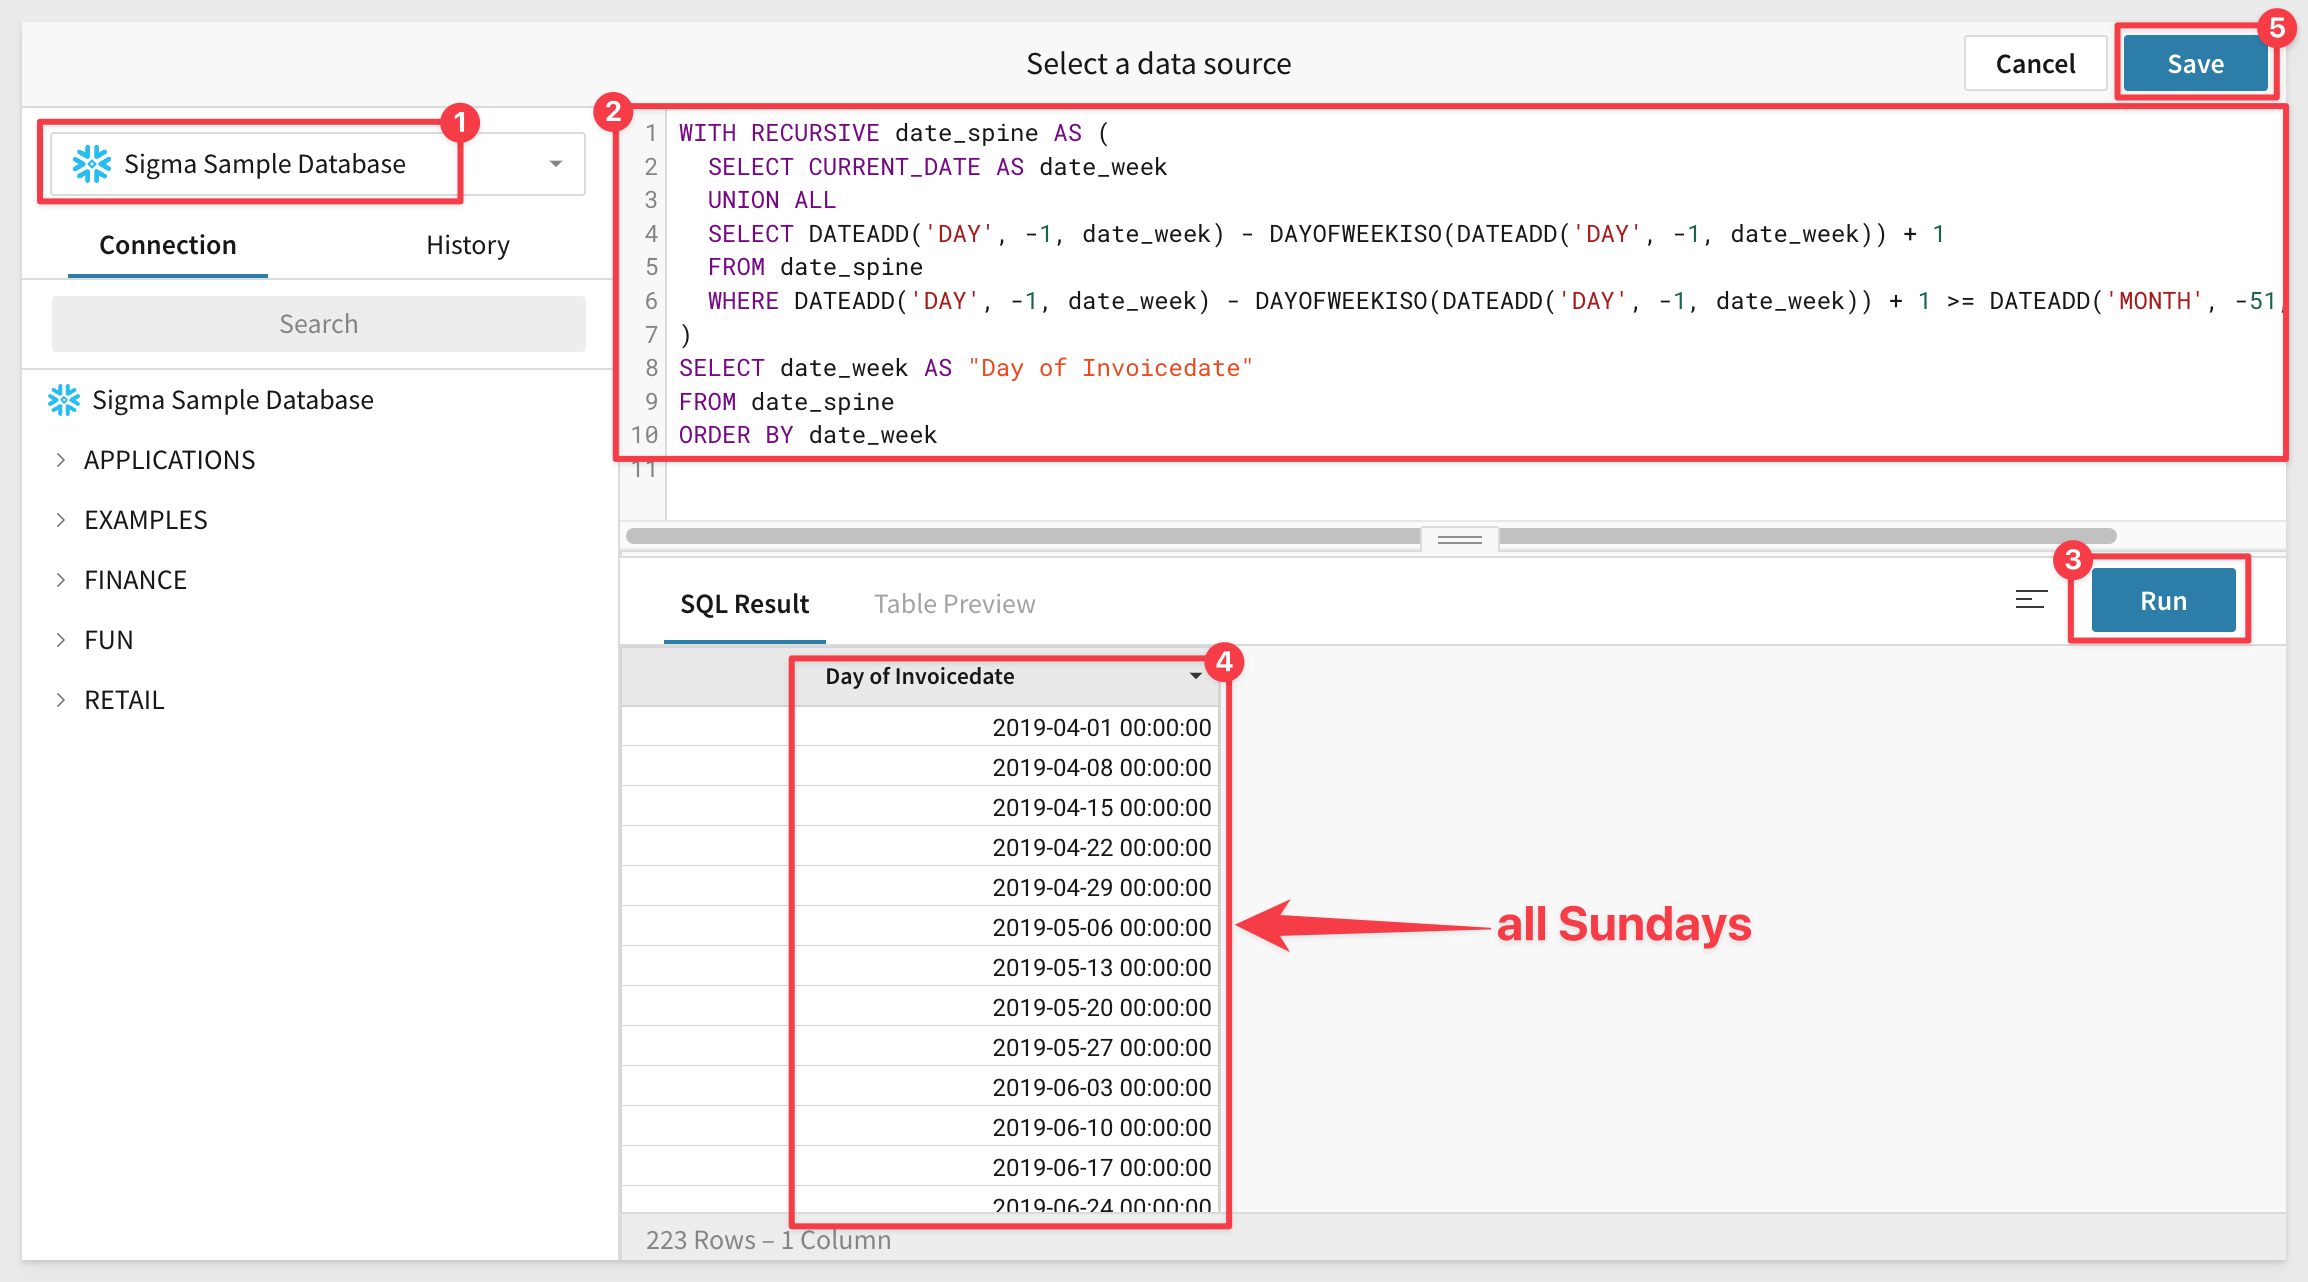
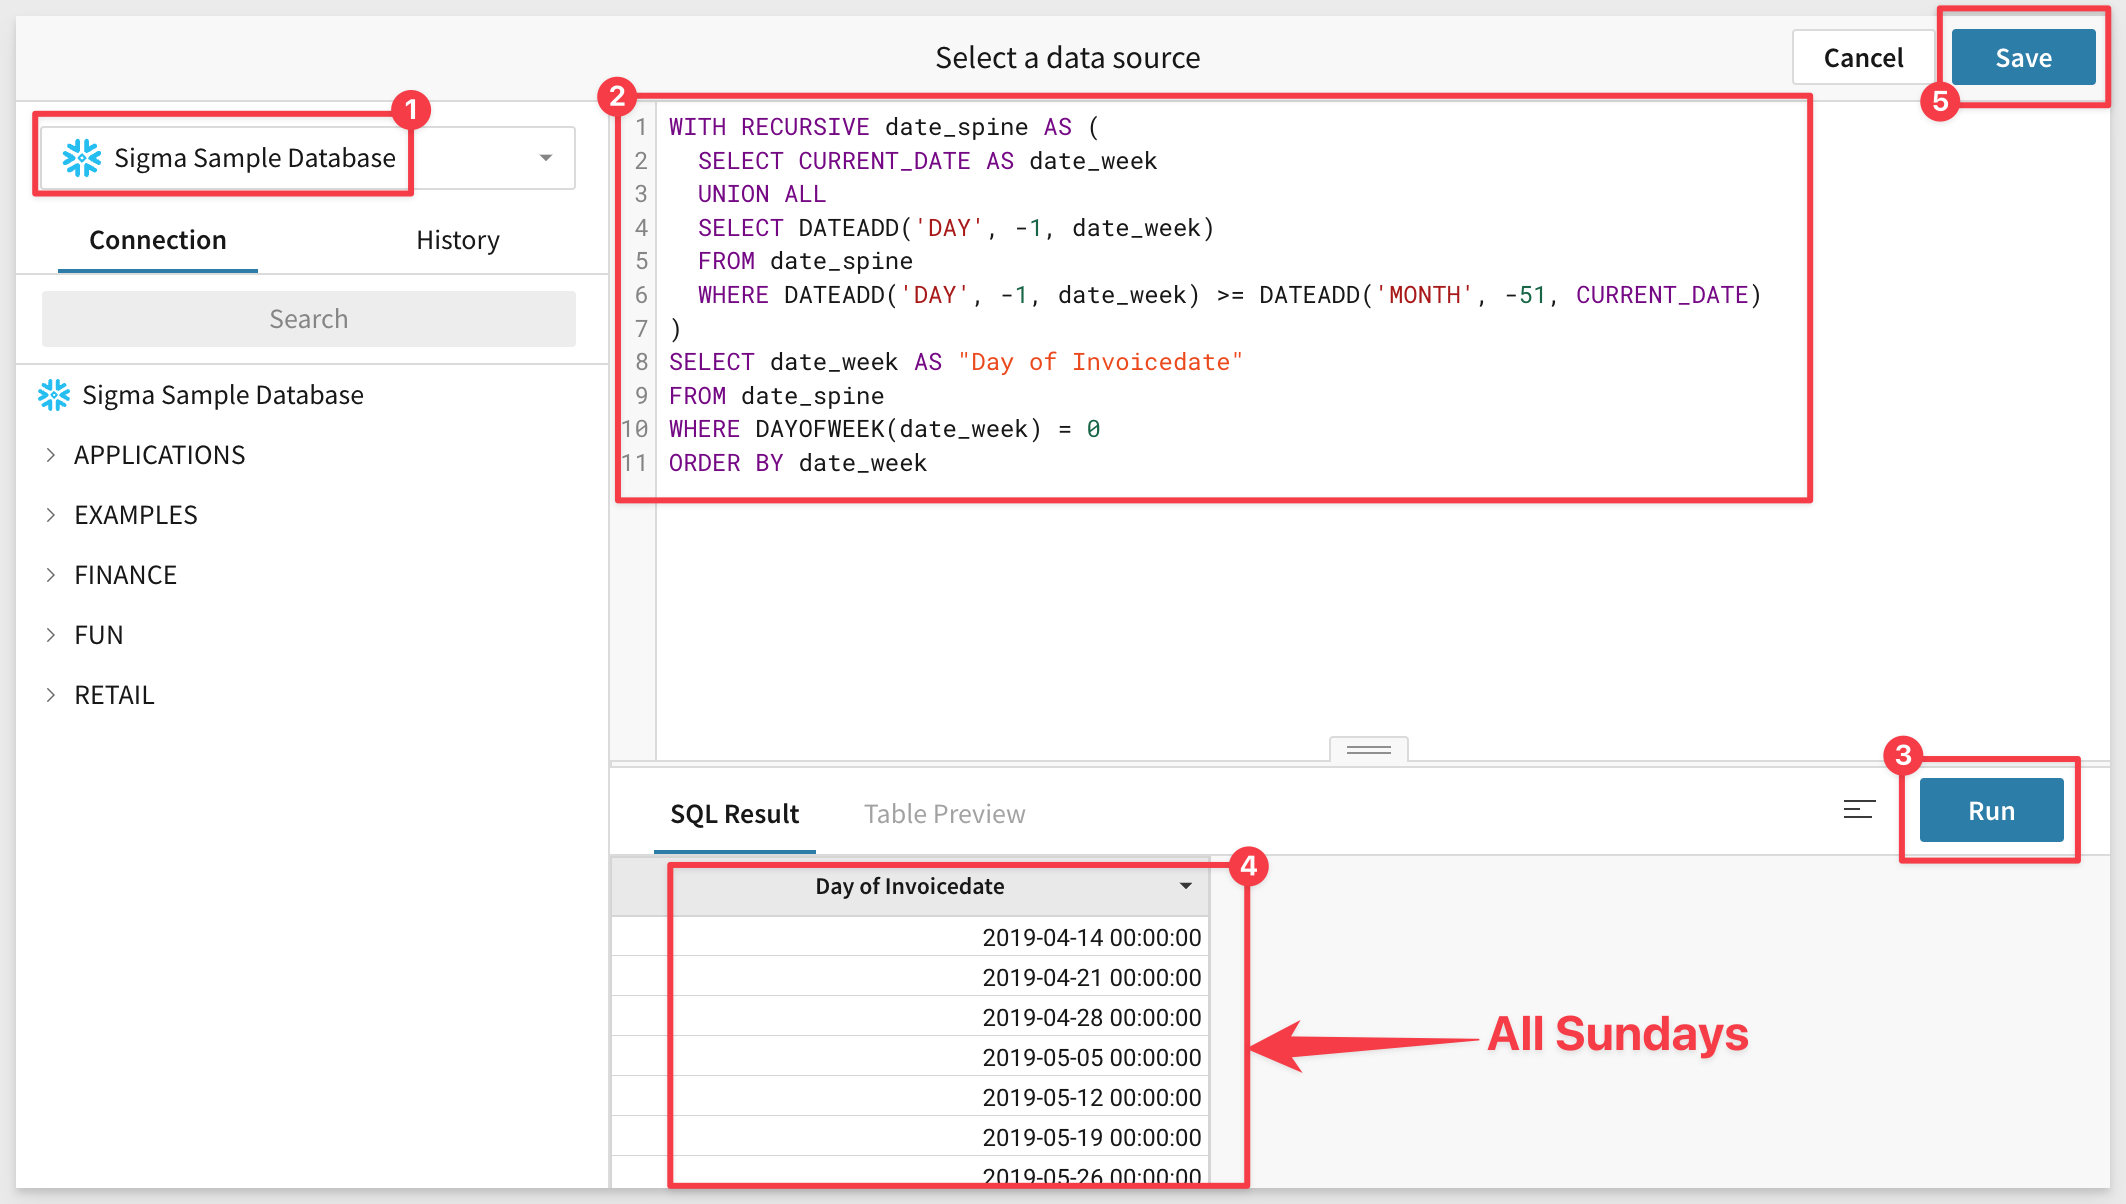
in process

diff --git a/site/sigmaguides/src/use_cases_date_spines/use_cases_date_spines.md b/site/sigmaguides/src/use_cases_date_spines/use_cases_date_spines.md
@@ -109,12 +109,13 @@ Paste the following code into the script window and click the `Run` button:
 WITH RECURSIVE date_spine AS (
   SELECT CURRENT_DATE AS date_week
   UNION ALL
-  SELECT DATEADD('DAY', -7, date_week)
+  SELECT DATEADD('DAY', -1, date_week)
   FROM date_spine
-  WHERE DATEADD('DAY', -7, date_week) >= DATEADD('MONTH', -51, CURRENT_DATE)
+  WHERE DATEADD('DAY', -1, date_week) >= DATEADD('MONTH', -51, CURRENT_DATE)
 )
 SELECT date_week AS "Day of Invoicedate"
 FROM date_spine
+WHERE DAYOFWEEK(date_week) = 0
 ORDER BY date_week
 ```
 
@@ -144,7 +145,7 @@ We now have a Date Spine as reference, that we can join with other tables to fil
 ## Weekly Sales Data
 Duration: 20
 
-Before we can use the Date Spine, we need to create a table that contains the data we are after and organized in groups.
+Before we can use the Date Spine, we need to create a table that contains the data we are after, and organized it in groups.
 
 Create a new `Table` on the `Data` Page. 
 
@@ -163,7 +164,8 @@ Click on the `Price` column dropdown and select `Add new column`:
 <img src="assets/ds19.png" width="400"/>
 
 Rename the new column to `Profit` and set it's formula to:
-```plantext
+
+```code
 Sum([Price] * [Quantity] - [Cost])
 ```
 
@@ -193,43 +195,57 @@ For example:
 
 <img src="assets/ds6.png" width="600"/>
 
-Apply the following groupings to the new `Sales Weekly` table.
+This filtering gives us 36 rows:
+
+<img src="assets/ds25.png" width="800"/>
+
+Now apply the following groupings to the new `Sales Weekly` table:
+
+<aside class="negative">
+<strong>NOTE:</strong><br> You should end up with nine independent groups as shown (we spilt the list into two so you don't have to scroll the QuickStart to see it all at once).
+</aside>
+
+<img src="assets/ds4.png" width="600"/>
 
 <aside class="negative">
 <strong>NOTE:</strong><br> Take care to place columns in separate groups (as shown in the image below) using the "+" icon. 
 </aside>
 
-Truncate the `Date` column in the last grouping to `Week`.
-
-You should end up with 9 independent groups as shown (we spilt the list into two so you don't have to scroll the QuickStart to see it all at once).
-
-<img src="assets/ds4.png" width="600"/>
+Truncate the `Date` column in the last grouping to `Week`. This column should be renamed `Week of Date`
 
 We will enrich the data with two calculated columns, adding them to the `Week of Date` grouping:
 
 <img src="assets/ds5.png" width="600"/>
 
-For the first new column we will rename it to `Previous Week of Date` and use this formula:
+For the first new column we will rename it to `to date` and use this formula:
 ```code
 Coalesce(DateAdd("millisecond", -1, Lead([Week of Date])), Today())
 ```
 
 Rename this new column to `to date`.
 
-ADD EXPLANATION HERE PHIL
+In looking at the data, we can see that the value for `to date` is the value of the previous `Week of Date` - 1 day:
 
-<img src="assets/ds7.png" width="800"/>
+<img src="assets/ds26.png" width="400"/>
+
+<aside class="negative">
+<strong>NOTE:</strong><br> The previous function is getting the date of the next week (minus one millisecond), or if there is no next week in the data (i.e., we're looking at the last row), it gets today's date. It's essentially a way of looking ahead to the next week in the data, or using the current date if we're already at the end of the data.
+</aside>
 
 For the second new column we will rename it to `Sum of Profit` and use this formula:
 ```plaintext
 Sum(Profit)
 ```
+
+It is necessary to sum the `Profit` as there are days with more than one order for the same item on the same day.
+
 `Weekly Sales` should now look similar to this (the dates may be slightly different; that is ok):
 
 <img src="assets/ds8.png" width="800"/>
 
 ![Footer](assets/sigma_footer.png)
 <!-- END OF SECTION-->
+
 
 ## Join Date Spine to Weekly Sales
 Duration: 20
